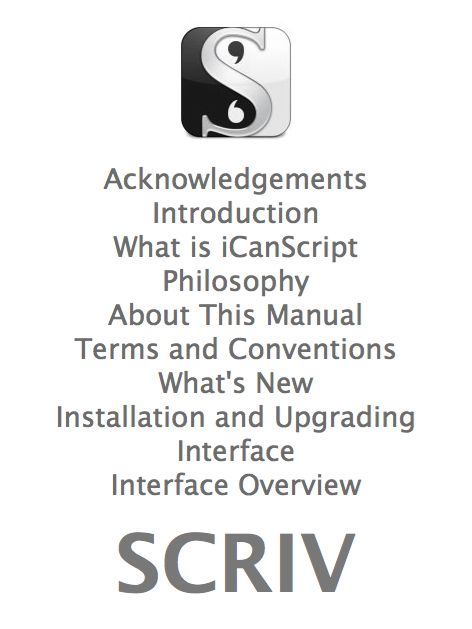
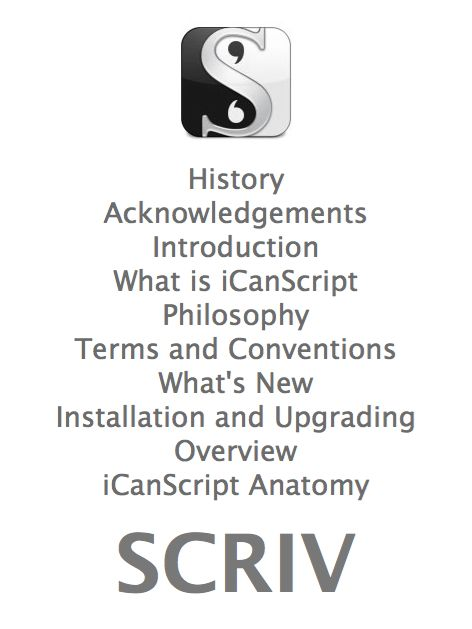
Added history in iCanScript User Manual.

Changed region(s): [[0.2076, 0.2719, 0.7712, 0.5437], [0.2076, 0.6948, 0.8008, 0.8156]]

diff --git a/Documentation/iCanScript User Manual.scriv/QuickLook/Preview.html b/Documentation/iCanScript User Manual.scriv/QuickLook/Preview.html
@@ -28,6 +28,11 @@
 
 <ul>
 <li>
+<p class="binderItem"><strong>History</strong><br/>iCanScript is a concept that has evolved over the last 15 years of my professional software engineering life.<br/>
+In 1997, the core concepts of the engine sub-system were first designed and implemented for a large telecommunication corporation.  The resulting software engine was embedded in several large scale telecommunication products in the years to follow.<br/>
+Having joined the gaming industry in 2003, I have realized that the engine needed to be complemented by a visual editor to boost the producti...</p>
+</li>
+<li>
 <p class="binderItem"><strong>Acknowledgements</strong><br/>- Thanks to all the donors.</p>
 </li>
 <li>
@@ -42,62 +47,36 @@
 <p class="binderItem"><strong>Philosophy</strong><br/>- Discuss what drives the development of iCanScript.</p>
 </li>
 <li>
-<p class="binderItem"><strong>About This Manual</strong><br/>- Document applicability<br/>
-- Software version<br/>
-- Different document formats.</p>
-</li>
-<hr/>
-<ul>
-<li>
 <p class="binderItem"><strong>Terms and Conventions</strong><br/>- Provide a simplified list of important terms.<br/>
 <br/>
 - Discuss typographic conventions used in this manual.</p>
 </li>
-</ul>
-<hr/>
 <li>
 <p class="binderItem"><strong>What's New</strong><br/>- Discuss major difference with previous version of the manual.</p>
 </li>
 <li>
 <p class="binderItem"><strong>Installation and Upgrading</strong></p>
 </li>
-<li>
-<p class="binderItem"><strong>Interface</strong></p>
-</li>
-<hr/>
-<ul>
-<li>
-<p class="binderItem"><strong>Interface Overview</strong></p>
-</li>
 </ul>
 <hr/>
 <li>
-<p class="binderItem"><strong>Quick Tour</strong></p>
-</li>
-</ul>
-<hr/>
-<li>
-<p class="binderItem"><strong>Preparation</strong><br/>- Discuss installation<br/>
-- Discuss iCanScript menus<br/>
-- Discuss windows & panels</p>
+<p class="binderItem"><strong>Overview</strong></p>
 </li>
 <hr/>
 <ul>
 <li>
 <p class="binderItem"><strong>iCanScript Anatomy</strong></p>
 </li>
+<li>
+<p class="binderItem"><strong>Interface Overview</strong></p>
+</li>
+<li>
+<p class="binderItem"><strong>Quick Tour</strong></p>
+</li>
 </ul>
 <hr/>
 <li>
-<p class="binderItem"><strong>Designing</strong></p>
-</li>
-<hr/>
-<ul>
-<li>
-<p class="binderItem"><strong>The Editor</strong></p>
-</li>
-<li>
-<p class="binderItem"><strong>The Inspector</strong></p>
+<p class="binderItem"><strong>The Visual Editor</strong></p>
 </li>
 <li>
 <p class="binderItem"><strong>The Hierarchy</strong></p>
@@ -108,8 +87,9 @@
 <li>
 <p class="binderItem"><strong>Instance Wizard</strong></p>
 </li>
-</ul>
-<hr/>
+<li>
+<p class="binderItem"><strong>The Inspector</strong></p>
+</li>
 <li>
 <p class="binderItem"><strong>iCanScript for Senior Programmers</strong><br/>- iCanScript for senior programmers</p>
 </li>
